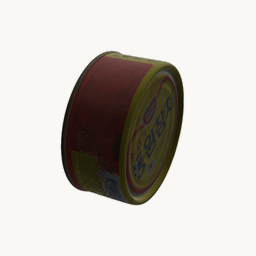
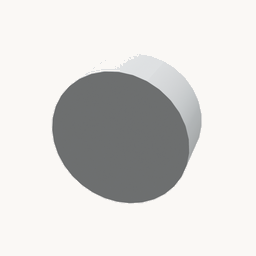
Apply v6 review and retarget tuna texture

Changed region(s): [[0.1875, 0.1875, 0.8125, 0.8125]]

diff --git a/docs/js/audit.js b/docs/js/audit.js
@@ -1,5 +1,5 @@
 const HF_BASE = 'https://huggingface.co/datasets/willi19/object_processing/resolve/main/';
-const DATA_VERSION = '20260704-willi19-9aaa4ce-texture-double-sided-v22';
+const DATA_VERSION = '20260704-willi19-9aaa4ce-v6-tuna-tissue-v23';
 const REVIEW_DB_KEY = 'object_processing.audit.review_versions.v1';
 const REVIEW_DRAFT_KEY = 'object_processing.audit.review_draft.v1';
 const REVIEW_MANIFEST_PATH = 'reviews/manifest.json';
@@ -1033,11 +1033,60 @@ class AuditScene {
       }
       const hitBox = this.buildPoseHitBox(index);
       if (hitBox) hitBox.parent = clone;
+      const label = this.buildPoseIndexLabel(index, dx, dy, extents);
+      if (label) label.parent = group;
     });
 
     const half = (cols * spacing) / 2 + Math.max(...extents);
     this.makeFloorSlab('tabletop_floor', Math.max(half * 2, spacing * 2)).parent = group;
     this.applyReviewSelections();
+  }
+
+  buildPoseIndexLabel(index, dx, dy, extents) {
+    const maxExtent = Math.max(...extents.filter((v) => Number.isFinite(v) && v > 0), 0.08);
+    const poseIds = this.row.info && Array.isArray(this.row.info.tabletop_pose_ids)
+      ? this.row.info.tabletop_pose_ids
+      : [];
+    const poseId = poseIds[index];
+    const paddedIndex = String(index).padStart(3, '0');
+    const text = poseId && poseId !== paddedIndex ? `#${index} / ${poseId}` : `#${index}`;
+
+    const texture = new BABYLON.DynamicTexture(`pose_label_tex_${this.row.id}_${index}`, {
+      width: 384,
+      height: 160,
+    }, this.scene, true);
+    texture.hasAlpha = true;
+    texture.drawText(
+      text,
+      null,
+      98,
+      '700 72px Arial, sans-serif',
+      'white',
+      'rgba(17, 24, 39, 0.84)',
+      true,
+      true,
+    );
+
+    const material = new BABYLON.StandardMaterial(`pose_label_mat_${this.row.id}_${index}`, this.scene);
+    material.diffuseTexture = texture;
+    material.emissiveTexture = texture;
+    material.opacityTexture = texture;
+    material.useAlphaFromDiffuseTexture = true;
+    material.disableLighting = true;
+    material.backFaceCulling = false;
+    material.transparencyMode = BABYLON.Material.MATERIAL_ALPHABLEND;
+
+    const label = BABYLON.MeshBuilder.CreatePlane(`pose_label_${index}`, {
+      width: maxExtent * 0.68,
+      height: maxExtent * 0.28,
+    }, this.scene);
+    label.material = material;
+    label.position = new BABYLON.Vector3(dx, dy, maxExtent * 0.92);
+    label.billboardMode = BABYLON.Mesh.BILLBOARDMODE_ALL;
+    label.isPickable = false;
+    label.renderingGroupId = 2;
+    label.alwaysSelectAsActiveMesh = true;
+    return label;
   }
 
   standingPose() {

diff --git a/docs/gallery.html b/docs/gallery.html
@@ -166,7 +166,7 @@
 
     async function loadCatalog() {
       try {
-        catalog = await (await fetch('catalog.json?v=20260704-willi19-9aaa4ce-texture-double-sided-v22')).json();
+        catalog = await (await fetch('catalog.json?v=20260704-willi19-9aaa4ce-v6-tuna-tissue-v23')).json();
       } catch (e) {
         console.error('Failed to load catalog.json:', e);
         $emptyMsg.textContent = 'Failed to load catalog.json.';
@@ -223,7 +223,7 @@
         card.onkeydown = (e) => { if (e.key === 'Enter') go(); };
 
         const thumb = obj.thumb
-          ? `<img src="objects/${obj.id}/thumb.png?v=26" alt="${escapeHtml(obj.label)}" loading="lazy" onerror="this.parentElement.innerHTML='<div class=placeholder>&#9645;</div>'">`
+          ? `<img src="objects/${obj.id}/thumb.png?v=27" alt="${escapeHtml(obj.label)}" loading="lazy" onerror="this.parentElement.innerHTML='<div class=placeholder>&#9645;</div>'">`
           : '<div class="placeholder">&#9645;</div>';
         card.innerHTML = `
           <div class="frame">${thumb}</div>

diff --git a/wiki/gallery.html b/wiki/gallery.html
@@ -165,7 +165,7 @@
 
     async function loadCatalog() {
       try {
-        catalog = await (await fetch('catalog.json?v=20260704-willi19-9aaa4ce-texture-double-sided-v22')).json();
+        catalog = await (await fetch('catalog.json?v=20260704-willi19-9aaa4ce-v6-tuna-tissue-v23')).json();
       } catch (e) {
         console.error('Failed to load catalog.json:', e);
         $emptyMsg.textContent = 'Failed to load catalog.json.';
@@ -222,7 +222,7 @@
         card.onkeydown = (e) => { if (e.key === 'Enter') go(); };
 
         const thumb = obj.thumb
-          ? `<img src="objects/${obj.id}/thumb.png?v=26" alt="${escapeHtml(obj.label)}" loading="lazy" onerror="this.parentElement.innerHTML='<div class=placeholder>&#9645;</div>'">`
+          ? `<img src="objects/${obj.id}/thumb.png?v=27" alt="${escapeHtml(obj.label)}" loading="lazy" onerror="this.parentElement.innerHTML='<div class=placeholder>&#9645;</div>'">`
           : '<div class="placeholder">&#9645;</div>';
         card.innerHTML = `
           <div class="frame">${thumb}</div>

diff --git a/docs/viewer.html b/docs/viewer.html
@@ -223,6 +223,6 @@
   <!-- Pinned Babylon.js UMD builds — same version for core + loaders -->
   <script src="https://cdn.jsdelivr.net/npm/babylonjs@7.34.3/babylon.js"></script>
   <script src="https://cdn.jsdelivr.net/npm/babylonjs-loaders@7.34.3/babylonjs.loaders.min.js"></script>
-  <script src="js/viewer.js?v=20260704-willi19-9aaa4ce-texture-double-sided-v22"></script>
+  <script src="js/viewer.js?v=20260704-willi19-9aaa4ce-v6-tuna-tissue-v23"></script>
 </body>
 </html>

diff --git a/wiki/viewer.html b/wiki/viewer.html
@@ -223,6 +223,6 @@
   <!-- Pinned Babylon.js UMD builds — same version for core + loaders -->
   <script src="https://cdn.jsdelivr.net/npm/babylonjs@7.34.3/babylon.js"></script>
   <script src="https://cdn.jsdelivr.net/npm/babylonjs-loaders@7.34.3/babylonjs.loaders.min.js"></script>
-  <script src="js/viewer.js?v=20260704-willi19-9aaa4ce-texture-double-sided-v22"></script>
+  <script src="js/viewer.js?v=20260704-willi19-9aaa4ce-v6-tuna-tissue-v23"></script>
 </body>
 </html>

diff --git a/docs/js/viewer.js b/docs/js/viewer.js
@@ -1,5 +1,5 @@
 const HF_BASE = 'https://huggingface.co/datasets/willi19/object_processing/resolve/main/';
-const DATA_VERSION = '20260704-willi19-9aaa4ce-texture-double-sided-v22';
+const DATA_VERSION = '20260704-willi19-9aaa4ce-v6-tuna-tissue-v23';
 
 // Pipeline stages the viewer can toggle between. `file` is relative to the
 // object dir on HuggingFace; `simplified` falls back to the legacy mesh.glb.

diff --git a/wiki/js/viewer.js b/wiki/js/viewer.js
@@ -1,5 +1,5 @@
 const HF_BASE = 'https://huggingface.co/datasets/willi19/object_processing/resolve/main/';
-const DATA_VERSION = '20260704-willi19-9aaa4ce-texture-double-sided-v22';
+const DATA_VERSION = '20260704-willi19-9aaa4ce-v6-tuna-tissue-v23';
 
 // Pipeline stages the viewer can toggle between. `file` is relative to the
 // object dir on HuggingFace; `simplified` falls back to the legacy mesh.glb.

diff --git a/docs/audit.html b/docs/audit.html
@@ -567,6 +567,6 @@
 
   <script src="https://cdn.jsdelivr.net/npm/babylonjs@7.34.3/babylon.js"></script>
   <script src="https://cdn.jsdelivr.net/npm/babylonjs-loaders@7.34.3/babylonjs.loaders.min.js"></script>
-  <script src="js/audit.js?v=20260704-willi19-9aaa4ce-texture-double-sided-v22"></script>
+  <script src="js/audit.js?v=20260704-willi19-9aaa4ce-v6-tuna-tissue-v23"></script>
 </body>
 </html>

diff --git a/object_processing/visualization/webexport.py b/object_processing/visualization/webexport.py
@@ -134,7 +134,9 @@ def export_web_info(obj_name, out_path, root=None, max_poses=24):
     # Stable tabletop poses (4x4 SE3 each).
     pose_files = sorted(glob.glob(os.path.join(info_dir, "tabletop", "*.npy")))
     poses = [np.load(p).tolist() for p in pose_files[:max_poses]]
+    pose_ids = [os.path.splitext(os.path.basename(p))[0] for p in pose_files[:max_poses]]
     info["tabletop_poses"] = poses
+    info["tabletop_pose_ids"] = pose_ids
     info["n_tabletop_poses"] = len(pose_files)
 
     # Curated 'teaser' resting pose (object -> table) used for the hero shot in

diff --git a/tools/prepare_scan1_prev.py b/tools/prepare_scan1_prev.py
@@ -30,7 +30,7 @@ SOURCES = {
     "paper_cup": ("PaperCup", "PaperCup"),
     "tennis_ball": ("Tennis_Ball", "Tennis_Ball"),
     "tissue_box": ("Tissue", "Tissue"),
-    "pepper_tuna": ("Tuna_Can", "Tuna_Can"),
+    "pepper_tuna_light": ("Tuna_Can", "Tuna_Can"),
     "paper_bowl": ("Paper_Soup_Bowl", "Paper_Soup_Bowl"),
     "tea_case": ("Osulloc", "Osulloc"),
 }
